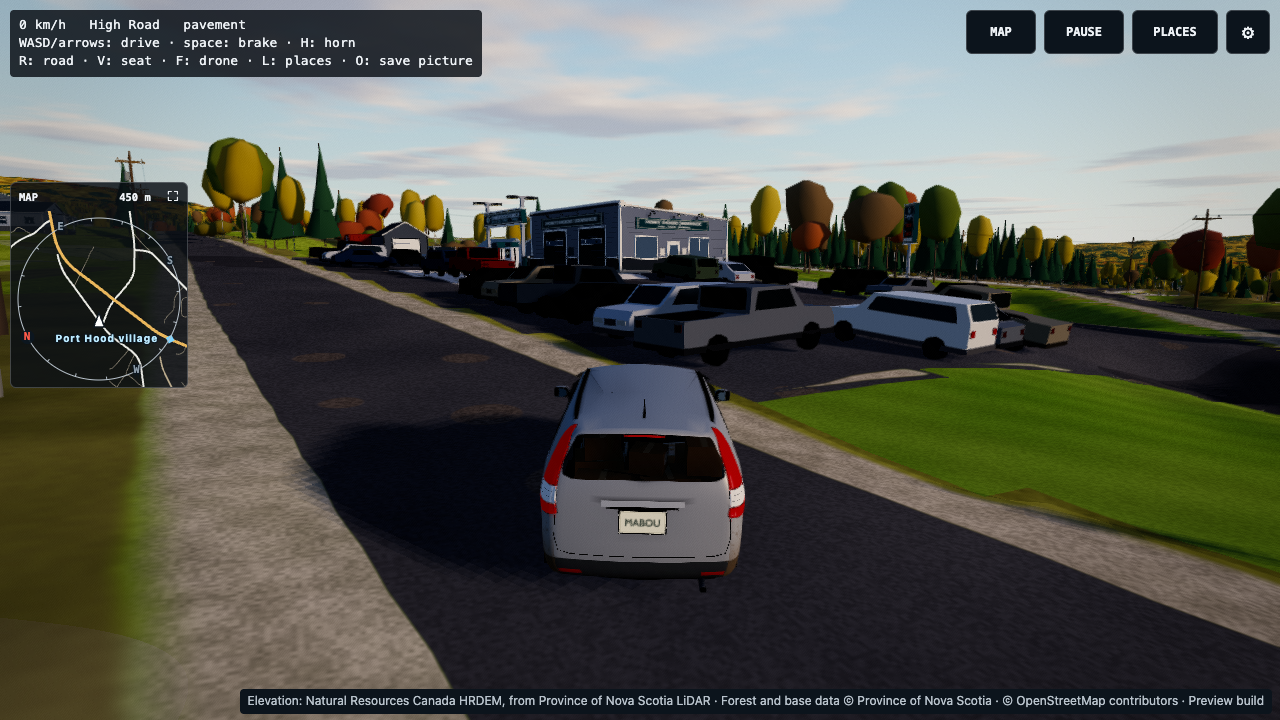
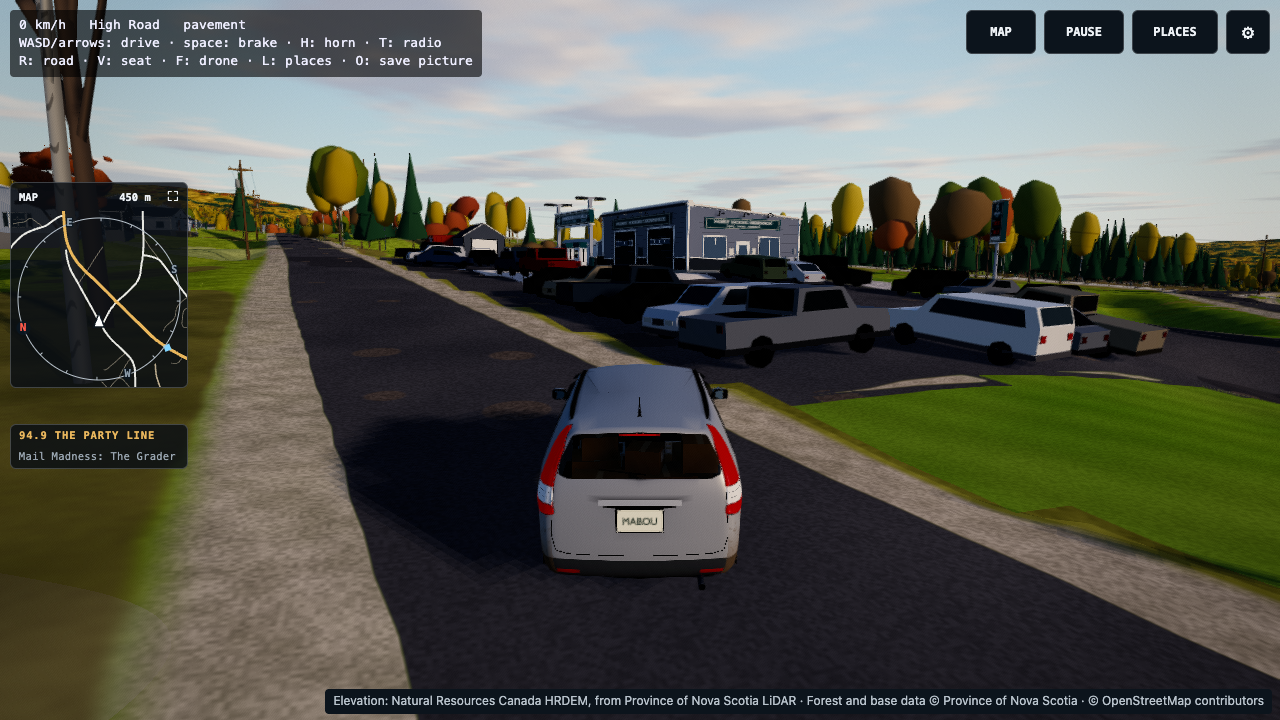
Turn /porthoodgas start heading to 111 degrees so phone HUD clears both signs (#186)

diff --git a/web/src/porthood-gas-site.ts b/web/src/porthood-gas-site.ts
@@ -25,9 +25,9 @@ const LENGTH = 19.23, WIDTH = 12.54, AXIS = 83;
 const SITE_REF: P = [614501.66, 5096458.7];
 const SITE_REACH = 0.5, SIZE_TOL = 0.5, AXIS_TOL = 0.5;
 
-/** Baked High Road point 248 (48 m WNW of building 522), angled so the station, fuel canopy, price pylon and packed lot fill the view.
- * Heading is clockwise from north in radians (118 degrees). */
-export const PORT_HOOD_GAS_START = { e: 614458.74, n: 5096480.17, road: 'High Road', heading: (118 * Math.PI) / 180 };
+/** Baked High Road point 248 (48 m WNW of building 522), angled so both station signs, the fuel canopy, price pylon and packed lot stay clear of the HUD on phone and desktop.
+ * Heading is clockwise from north in radians (111 degrees). */
+export const PORT_HOOD_GAS_START = { e: 614458.74, n: 5096480.17, road: 'High Road', heading: (111 * Math.PI) / 180 };
 
 /** Level ground under the main service station building and east wing; outside it blends back to the lot's slope. */
 const PAD: P[] = [[-8.2, -6.2], [10.8, -6.2], [10.8, 5.2], [-8.2, 5.2]];
